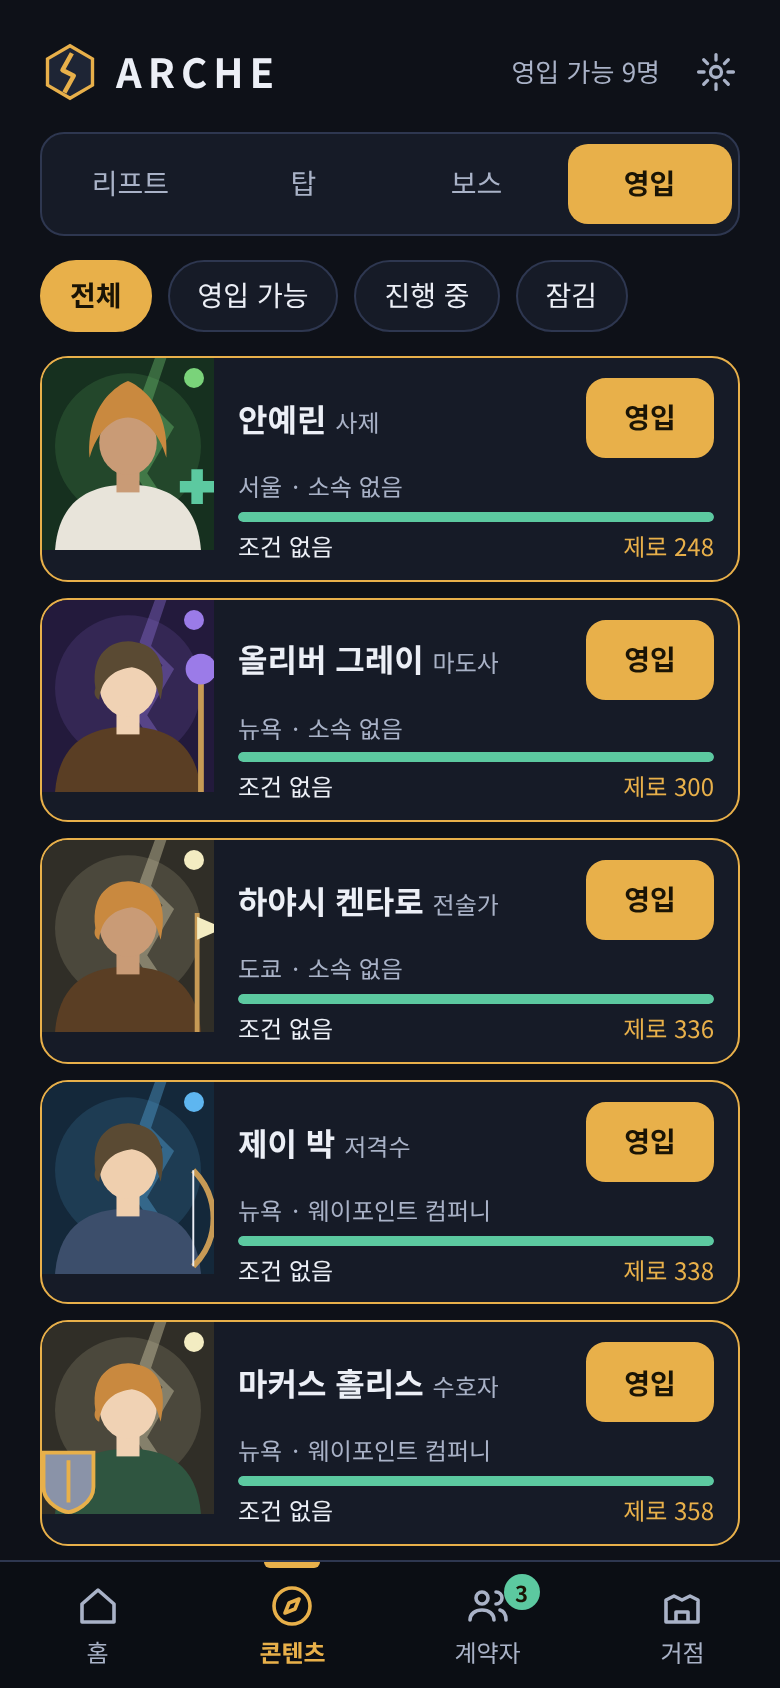
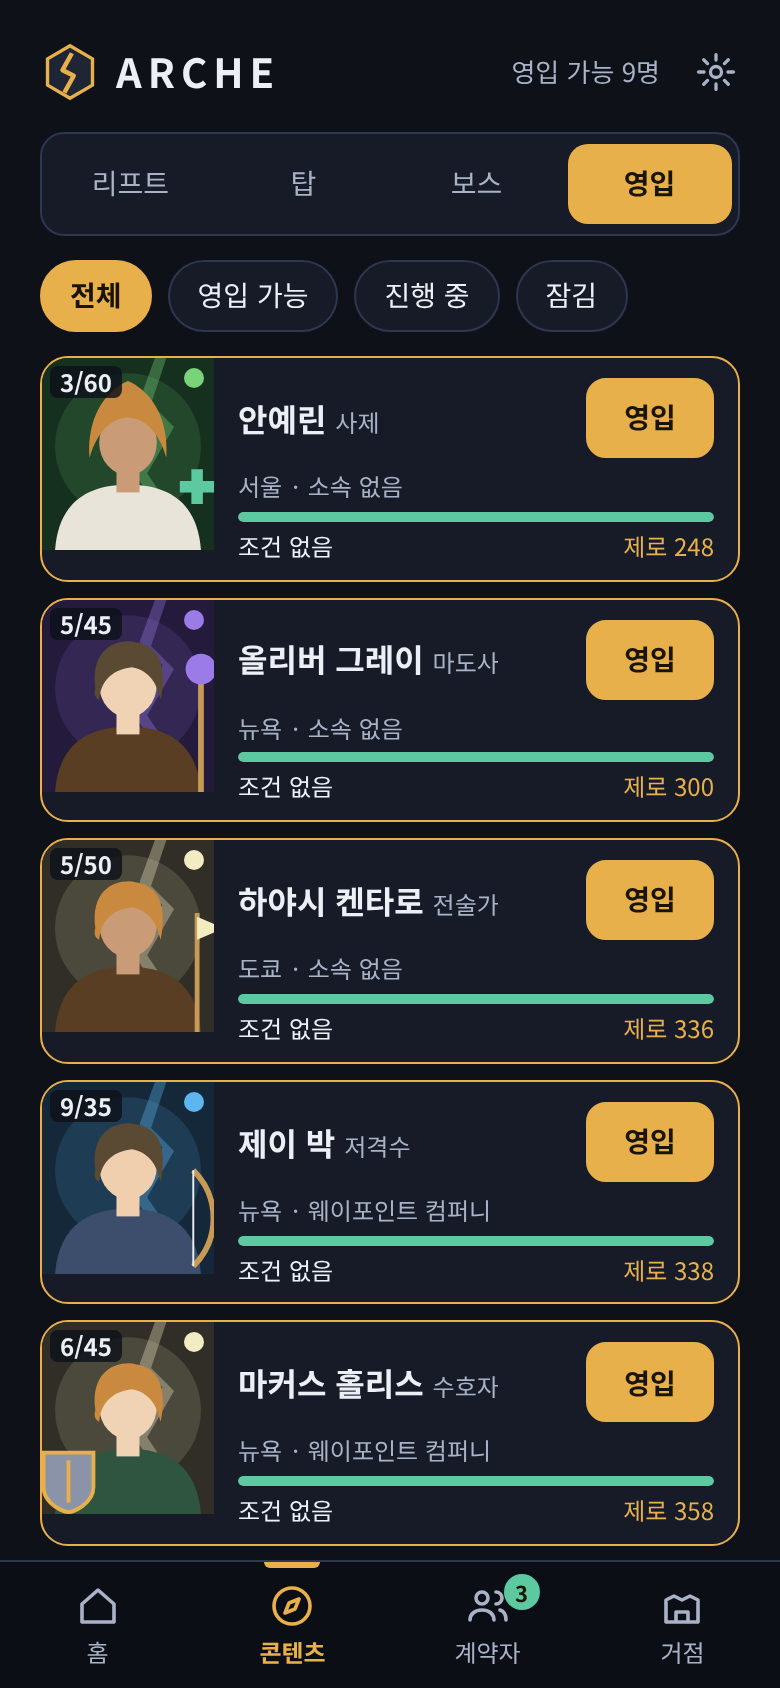
지시서 017c: 영입 카드 레벨/성장 한계 배지 (#57)
- 계약자 카드 배지를 LevelBadge로 뽑아 영입 카드와 같이 쓴다(영입은 시안 Recruit 크기 12px)
- 영입 가능·진행 중 카드에 최초 레벨/성장 한계, 잠김 카드는 숨김. data-ui="recruit.level"
- ui:check: 배지 검사 추가, 서브 탭 화면의 부모 머리 구역 허용, 020·021 미구현 구역은 PENDING으로 제외
- ui:shots Recruit 다시 찍기

Claude-Session: https://claude.ai/code/session_01FY7xQz4JPTFL2yu4tn9QHk

diff --git a/tests/ui/contract.spec.ts b/tests/ui/contract.spec.ts
@@ -15,6 +15,15 @@ async function open(page: Page, screen: string) {
   await page.evaluate(() => document.fonts.ready);
 }
 
+// 계약에는 있지만 아직 지시서가 구현하지 않은 구역. 해당 지시서에서 구현하면 이 목록에서 지운다.
+const PENDING: Record<string, string[]> = {
+  MercDetail: ['growth', 'skills'], // 021 성장률, 020 스킬
+  Battle: ['statusIcons'], // 020 상태 효과
+  Settings: ['help'], // 020 도움말
+};
+// 서브 탭 화면에서 같이 보이는 부모 화면 구역
+const PARENT_SECTIONS = ['header', 'subtabs'];
+
 for (const sc of SCREENS) {
   const spec = contract.screens[sc.name];
   test.describe(sc.name, () => {
@@ -23,15 +32,21 @@ for (const sc of SCREENS) {
     test('구역 계약: 순서와 이름', async ({ page }) => {
       // 제안 화면(탑·보스·영입)은 콘텐츠의 서브 탭이고 계약에 구역이 없다
       test.skip(spec.sections.length === 0, '계약에 구역이 없는 제안 화면');
-      const found: string[] = await page.$$eval('[data-ui]', (els) => els.map((e) => e.getAttribute('data-ui')!));
+      // 구역 이름은 '화면.구역'(대문자 시작). 소문자로 시작하는 data-ui(예: recruit.level)는 요소 표시라 구역이 아니다
+      const found: string[] = (await page.$$eval('[data-ui]', (els) => els.map((e) => e.getAttribute('data-ui')!))).filter((x) => /^[A-Z]/.test(x));
       const prefix = `${sc.name}.`;
       const mine = found.filter((x) => x.startsWith(prefix)).map((x) => x.slice(prefix.length));
-      const others = found.filter((x) => !x.startsWith(prefix));
+      const parentIds = sc.parent ? PARENT_SECTIONS.map((id) => `${sc.parent}.${id}`) : [];
+      const others = found.filter((x) => !x.startsWith(prefix) && !parentIds.includes(x));
       expect(others, '다른 화면의 data-ui').toEqual([]);
       const ids: string[] = spec.sections.map((s: { id: string }) => s.id);
       const unknown = mine.filter((x) => !ids.includes(x));
       expect(unknown, '계약에 없는 구역').toEqual([]);
-      const required = spec.sections.filter((s: { optionalChildren?: boolean }) => !s.optionalChildren).map((s: { id: string }) => s.id);
+      const pending = PENDING[sc.name] ?? [];
+      const required = spec.sections
+        .filter((s: { optionalChildren?: boolean }) => !s.optionalChildren)
+        .map((s: { id: string }) => s.id)
+        .filter((id: string) => !pending.includes(id));
       for (const id of required) expect(mine, `구역 ${id}`).toContain(id);
       // 순서: 계약 순서대로 나와야 한다
       const order = mine.map((x) => ids.indexOf(x));
@@ -94,6 +109,26 @@ for (const sc of SCREENS) {
     });
   });
 }
+
+// 017c: 영입 가능·진행 중 카드마다 '레벨/성장 한계' 배지(숫자/숫자), 잠김 카드에는 없다
+test('영입 카드 레벨/성장 한계 배지', async ({ page }) => {
+  await open(page, 'recruit');
+  const cards = await page.$$eval('[data-ui="Recruit.cards"] [data-role=card]', (els) =>
+    els.map((e) => ({
+      locked: e.classList.contains('locked'),
+      badges: [...e.querySelectorAll('[data-ui="recruit.level"]')].map((b) => b.textContent ?? ''),
+    })),
+  );
+  const open_ = cards.filter((c) => !c.locked);
+  const locked = cards.filter((c) => c.locked);
+  expect(open_.length, '영입 가능·진행 중 카드').toBeGreaterThan(0);
+  expect(locked.length, '잠김 카드').toBeGreaterThan(0);
+  for (const c of open_) {
+    expect(c.badges.length, '배지 1개').toBe(1);
+    expect(c.badges[0]).toMatch(/^\d+\/\d+$/);
+  }
+  for (const c of locked) expect(c.badges, '잠김 카드 배지 없음').toEqual([]);
+});
 
 test('계약자 그리드 4열, 파티 슬롯 줄당 5', async ({ page }) => {
   await open(page, 'mercs');

diff --git a/src/ui/screens/Content.tsx b/src/ui/screens/Content.tsx
@@ -8,7 +8,7 @@ import { visibleRift } from '../../engine/facilities';
 import { recruit, recruitInfo, type MercenaryState } from '../../engine/game';
 import { riftVariant, type Rift } from '../../engine/rift';
 import { guildStatusSummary, riftAutoRisk, type RiftAutoRisk } from '../../engine/status';
-import { Banner, Card, Chip, ChipRow, Gauge, Icon, LogoRow, Portrait, RiskPill, Screen } from '../components';
+import { Banner, Card, Chip, ChipRow, Gauge, Icon, LevelBadge, LogoRow, Portrait, RiskPill, Screen } from '../components';
 import { cityName, factionName, num, roleName, tierName } from '../format';
 import type { ContentTab, Ctx } from '../nav';
 import { cityChips, daysLeft, filterAndSortRifts, isUrgent, type RiskLookup } from '../riftFilter';
@@ -256,7 +256,7 @@ function RecruitList({ ctx, list }: { ctx: Ctx; list: MercenaryState[] }) {
   const unlockText = (info: ReturnType<typeof recruitInfo>) =>
     info.unlock ? (info.unlock.type === 'totalVictories' ? '리프트 공략' : `${tierName(info.unlock.tier)} 공략`) : '';
   return (
-    <div className="pg" data-role="page">
+    <div className="pg" data-role="page" data-ui="Recruit.cards">
       {rows.map(({ m, info, kind }) => {
         const p = info.progress;
         const ratio = info.unlocked ? 1 : p ? p.current / p.required : 0;
@@ -266,6 +266,8 @@ function RecruitList({ ctx, list }: { ctx: Ctx; list: MercenaryState[] }) {
           <div key={m.id} className={`card recruit-card ${kind === 'ready' ? 'ready' : ''} ${kind === 'locked' ? 'locked' : ''}`} data-role="card">
             <button className="recruit-art" aria-label={`${m.name} 상세`} onClick={() => ctx.go({ name: 'merc', mercId: m.id })}>
               <Portrait id={m.id} element={m.element} role={m.role} fill />
+              {/* 017c: 최초 레벨/성장 한계. 잠김 카드는 정체를 모르니 숨긴다 */}
+              {kind !== 'locked' && <LevelBadge level={m.initialLevel} cap={m.growth.cap} large ui="recruit.level" />}
               <span className="el-dot big" data-el={m.element} />
             </button>
             <div className="col grow" style={{ padding: '8px 12px', gap: 4, minWidth: 0 }}>

diff --git a/src/ui/components/parts.tsx b/src/ui/components/parts.tsx
@@ -107,6 +107,16 @@ export function capTier(cap: number) {
 /** 보석 표시 구간(시안: 55~60, 65~) */
 const GEM_TIERS = (): string[] => tables.ui.capTiers.slice(-2).map((t) => t.id);
 
+/** 초상 왼쪽 위 '레벨/성장 한계' 배지(계약자 카드·영입 카드가 같이 쓴다). large는 영입 카드(시안 Recruit: 12px) */
+export function LevelBadge({ level, cap, large, ui }: { level: number; cap?: number; large?: boolean; ui?: string }) {
+  return (
+    <span className={`mcard-lv ${large ? 'lg' : ''}`} data-ui={ui}>
+      {level}
+      {cap !== undefined && <span>/{cap}</span>}
+    </span>
+  );
+}
+
 /** 계약자 카드(시안 Merc·Party): 초상, 레벨/한계, 속성 점, UP, 이름, (역할), 경험치 막대, 상태 글자, 한계 구간 테두리·빛·보석 */
 export function MercCard({
   id,
@@ -152,10 +162,7 @@ export function MercCard({
     <button className={`mcard ${off ? 'off' : ''} ${compact ? 'compact' : ''}`} data-cap={tier?.id} data-el={element} onClick={onClick} aria-label={`${name} Lv${level}${cap ? `/${cap}` : ''} ${state}`}>
       <div className="mcard-art">
         <Portrait id={id} element={element} role={role} fill />
-        <span className="mcard-lv">
-          {level}
-          {cap !== undefined && <span>/{cap}</span>}
-        </span>
+        <LevelBadge level={level} cap={cap} />
         <span className="mcard-el" />
         {up && <span className="mcard-up">UP</span>}
       </div>

diff --git a/src/ui/ui.css b/src/ui/ui.css
@@ -134,6 +134,9 @@ html, body, #root { margin: 0; height: 100%; background: var(--c-page); }
 .mcard-art { height: 58px; position: relative; }
 .mcard-lv { position: absolute; left: 3px; top: 3px; font-size: 11px; font-weight: 700; background: var(--c-scrim); border-radius: 4px; padding: 0 4px; }
 .mcard-lv > span { font-weight: 400; color: var(--c-text-sub); }
+/* 영입 카드(시안 Recruit): 조금 크고 한계 숫자도 같은 굵기·색 */
+.mcard-lv.lg { left: 4px; top: 4px; font-size: 12px; line-height: 16px; padding: 0 5px; z-index: 2; }
+.mcard-lv.lg > span { font-weight: inherit; color: inherit; }
 .mcard-el { position: absolute; right: 4px; top: 4px; width: 9px; height: 9px; border-radius: 50%; background: var(--el); }
 .mcard-up { position: absolute; right: 3px; bottom: 3px; font-size: 11px; font-weight: 700; color: var(--c-gold-ink); background: var(--c-gold); border-radius: 4px; padding: 0 4px; }
 .mcard-gem { position: absolute; left: 50%; top: -1px; margin-left: -6px; width: 12px; height: 12px; }

diff --git a/tests/ui/screens.ts b/tests/ui/screens.ts
@@ -4,6 +4,8 @@ export interface ScreenDef {
   name: string;
   /** 앱 픽스처 screen 파라미터 */
   screen: string;
+  /** 서브 탭 화면이면 부모 화면 이름. 부모의 머리 구역(header·subtabs)은 같이 보인다 */
+  parent?: string;
 }
 
 export const SCREENS: ScreenDef[] = [
@@ -16,9 +18,9 @@ export const SCREENS: ScreenDef[] = [
   { name: 'Battle', screen: 'replay' },
   { name: 'Base', screen: 'base' },
   { name: 'Settings', screen: 'saves' },
-  { name: 'Tower', screen: 'tower' },
-  { name: 'Boss', screen: 'boss' },
-  { name: 'Recruit', screen: 'recruit' },
+  { name: 'Tower', screen: 'tower', parent: 'Content' },
+  { name: 'Boss', screen: 'boss', parent: 'Content' },
+  { name: 'Recruit', screen: 'recruit', parent: 'Content' },
 ];
 
 export const appUrl = (port: number, s: ScreenDef) => `http://localhost:${port}/?fixture=ui&screen=${s.screen}`;
